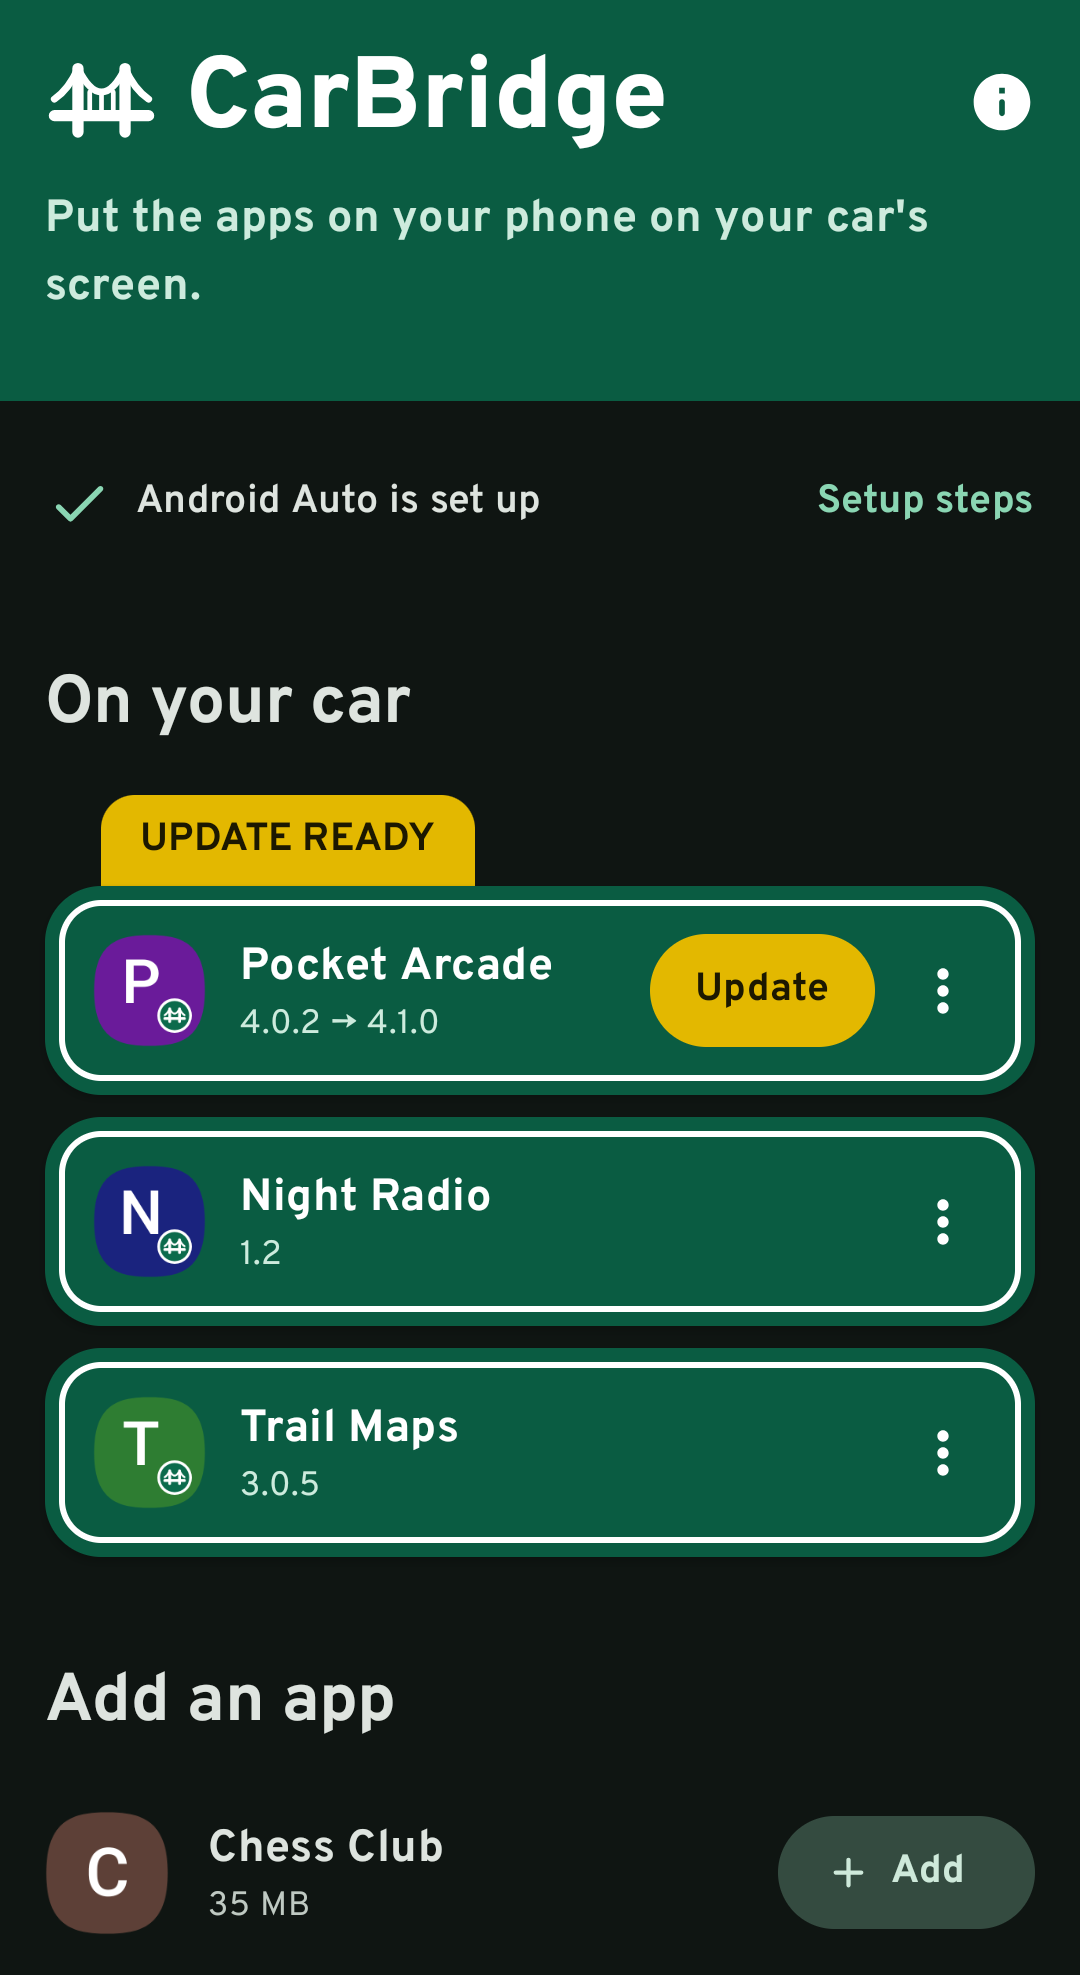
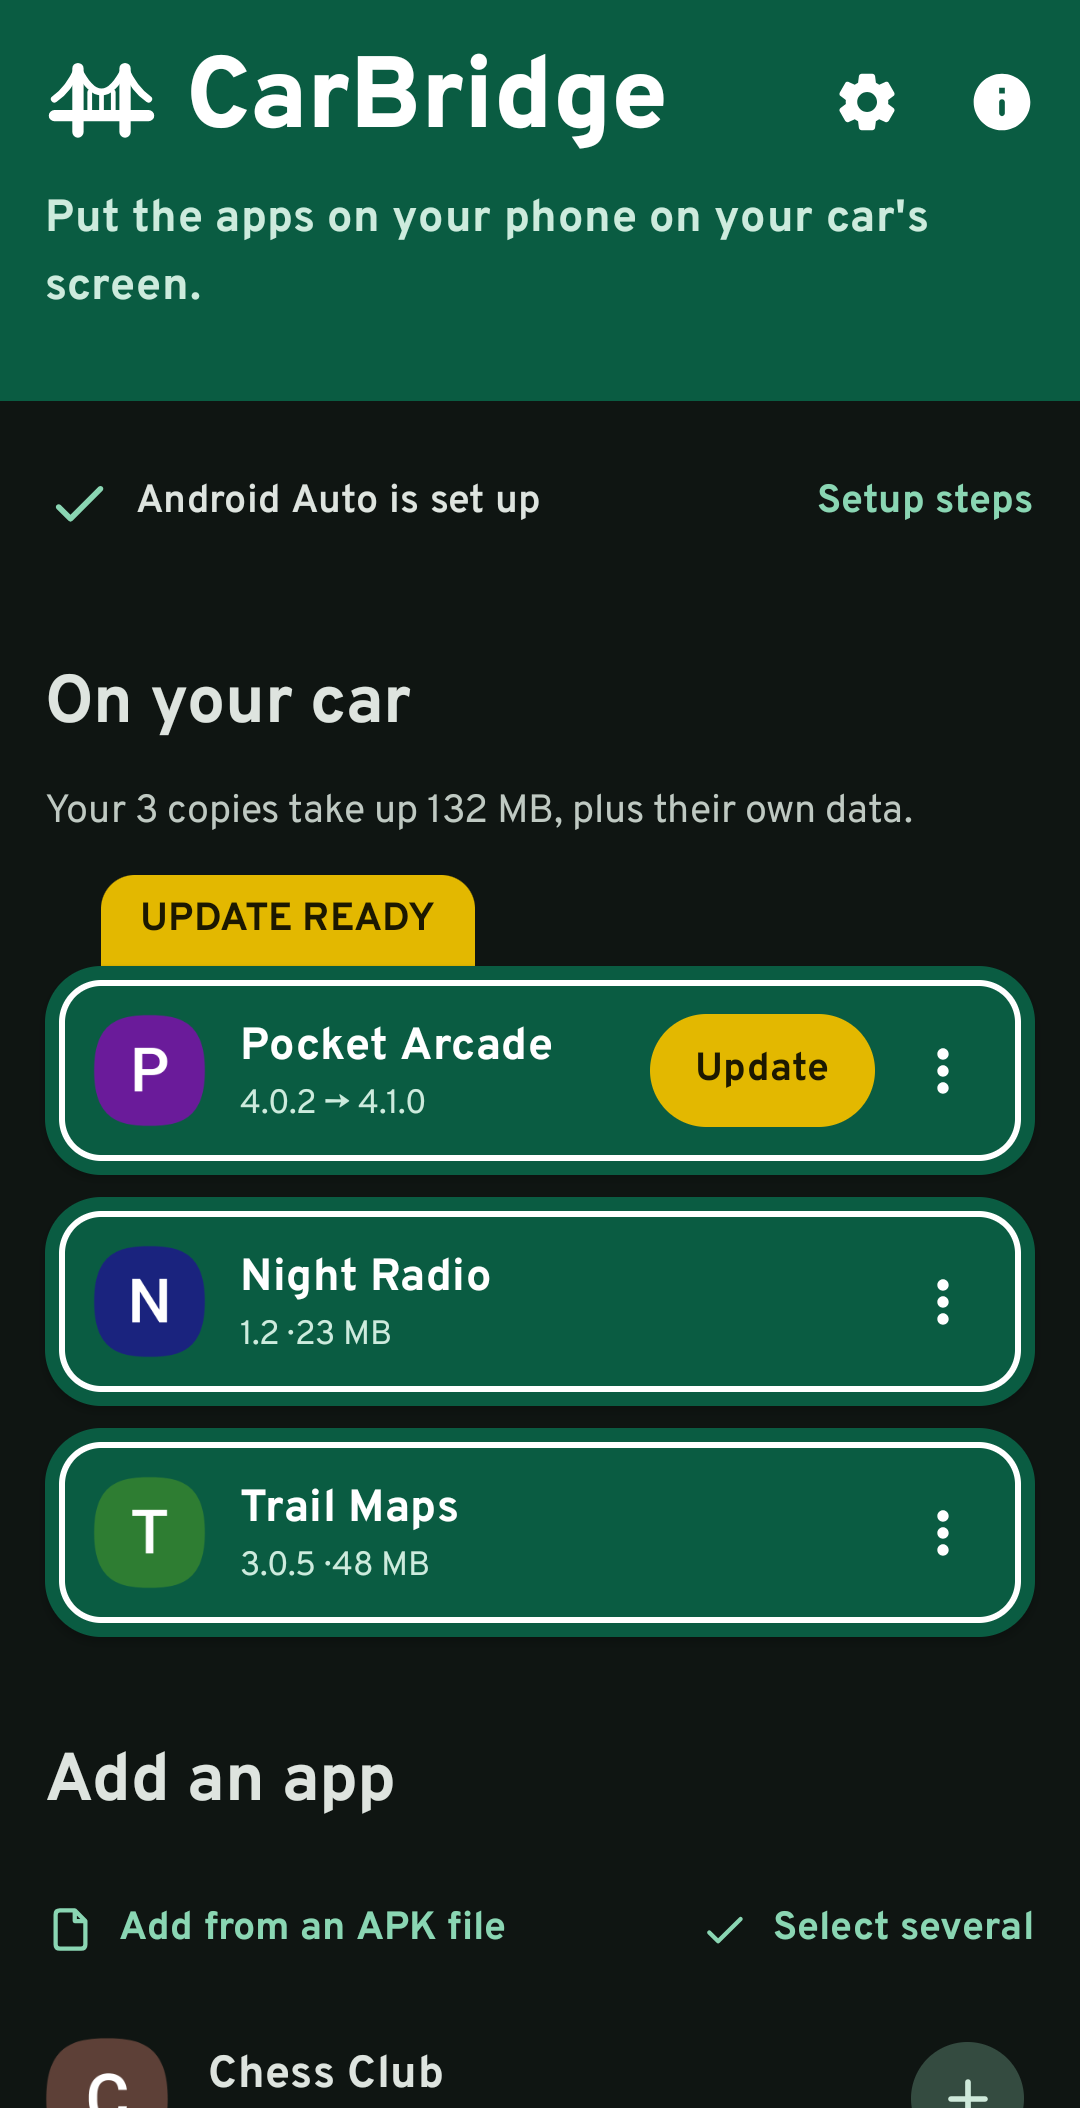
docs: refresh store screenshots
Five screenshots from the sample screen: home, the progress bar, a
copy's menu, the app list and Settings. Sample copies now have sizes,
so their cards and the storage line show them.

diff --git a/docs/index.html b/docs/index.html
@@ -253,7 +253,7 @@
         </div>
       </div>
       <div class="phone">
-        <img src="img/screenshot.png" width="1080" height="1975"
+        <img src="img/screenshot.png" width="1080" height="2108"
              alt="CarBridge home screen: Android Auto is set up; three apps on your car, one with an update ready; and a list of apps to add.">
       </div>
     </div>

diff --git a/patcher/src/debug/java/org/carbridge/ScreenshotActivity.kt b/patcher/src/debug/java/org/carbridge/ScreenshotActivity.kt
@@ -95,6 +95,7 @@ class ScreenshotActivity : ComponentActivity() {
             portraitLocked = portrait,
             hasMediaService = false,
             options = CarOptions(),
+            sizeBytes = original.sizeBytes,
         )
 
     private fun icon(letter: String, color: Long, badged: Boolean): ImageBitmap {

diff --git a/README.md b/README.md
@@ -267,8 +267,10 @@ gh secret set CARBRIDGE_STORE_PASSWORD && gh secret set CARBRIDGE_KEY_ALIAS && g
 ```
 
 Store listing text, icon and screenshots for IzzyOnDroid and F-Droid clients are in
-`fastlane/metadata/android/en-US`. The screenshot uses made-up sample apps from a debug-only
-screen (`patcher/src/debug`); crop the status and navigation bars off the capture:
+`fastlane/metadata/android/en-US`. The screenshots use made-up sample apps from a debug-only
+screen (`patcher/src/debug`); crop the status and navigation bars off each capture. Add
+`--ef progress 0.45` for the progress bar; open the ⋮ menu and Settings by tapping. Set the debug
+`app_name` to "CarBridge" while capturing, so the header doesn't say "CarBridge Debug":
 
 ```bash
 ./gradlew :patcher:installDebug && adb shell am start -n org.carbridge.debug/org.carbridge.ScreenshotActivity
